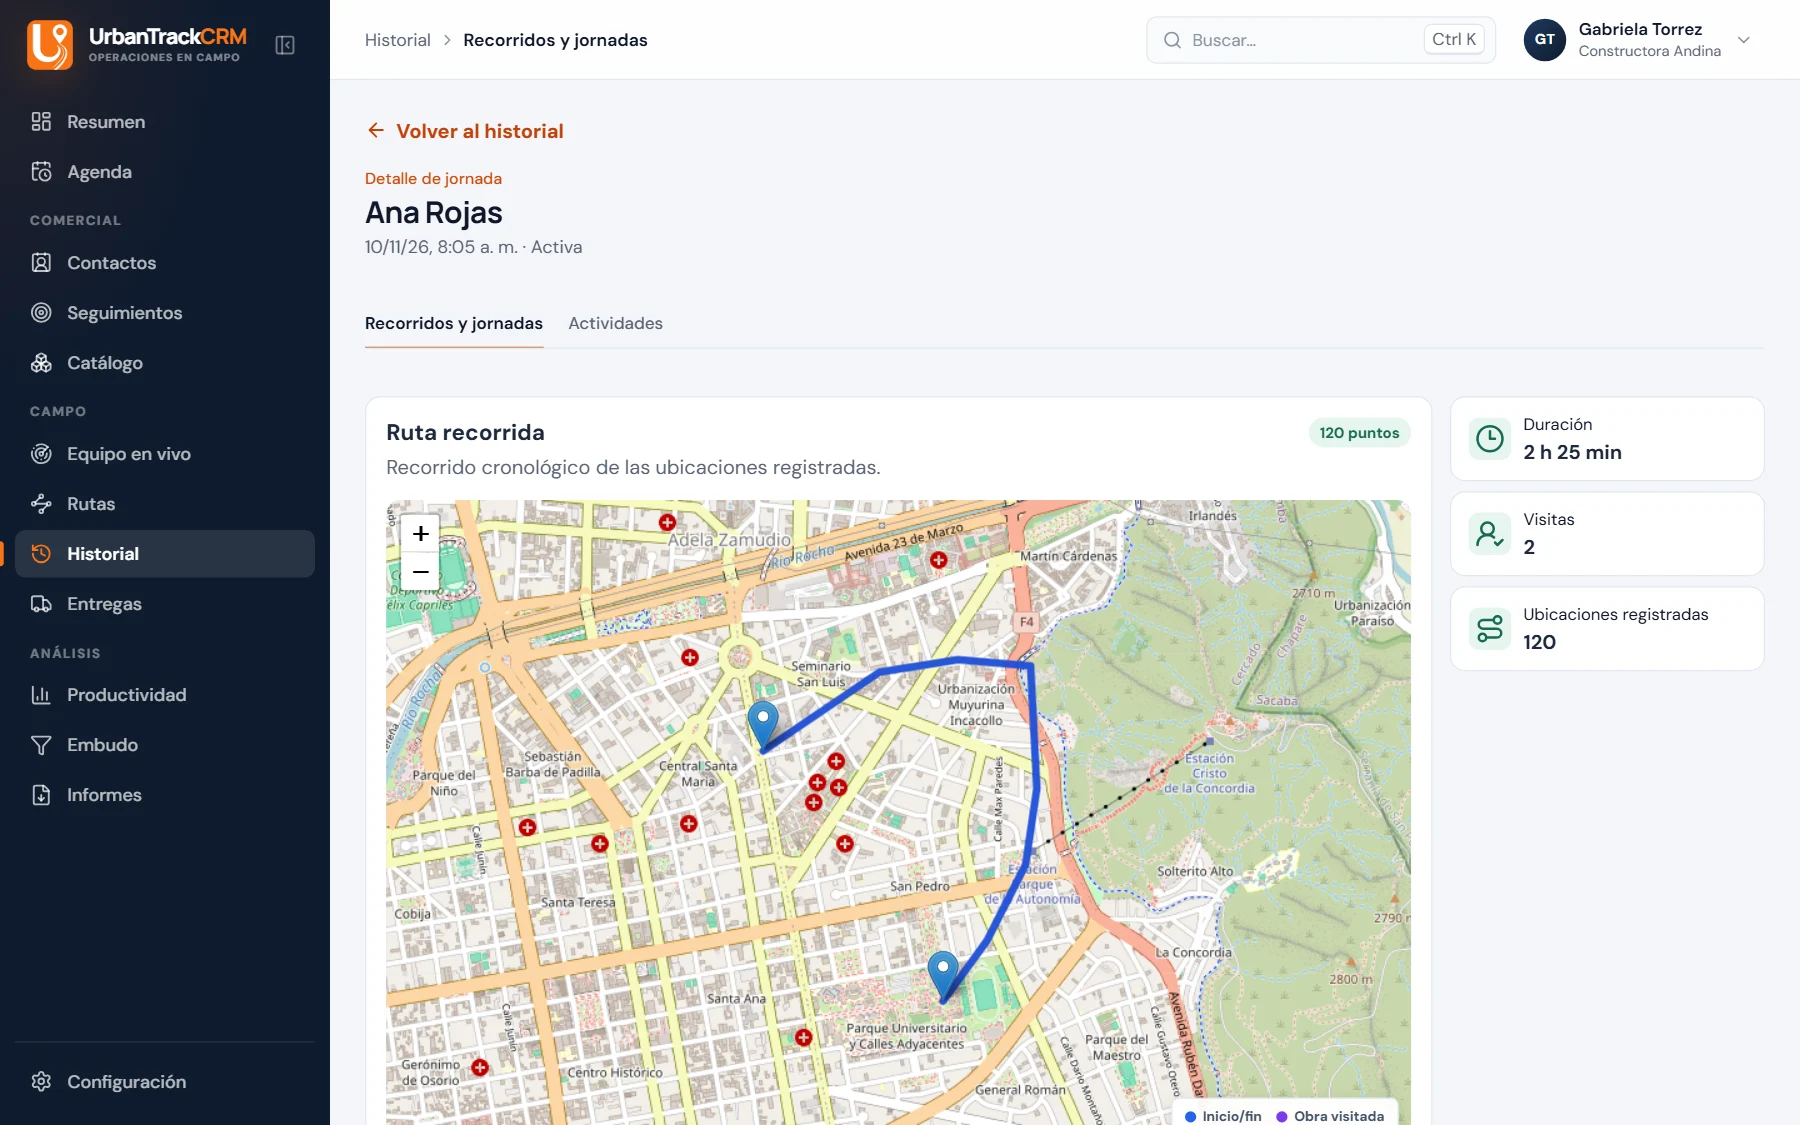
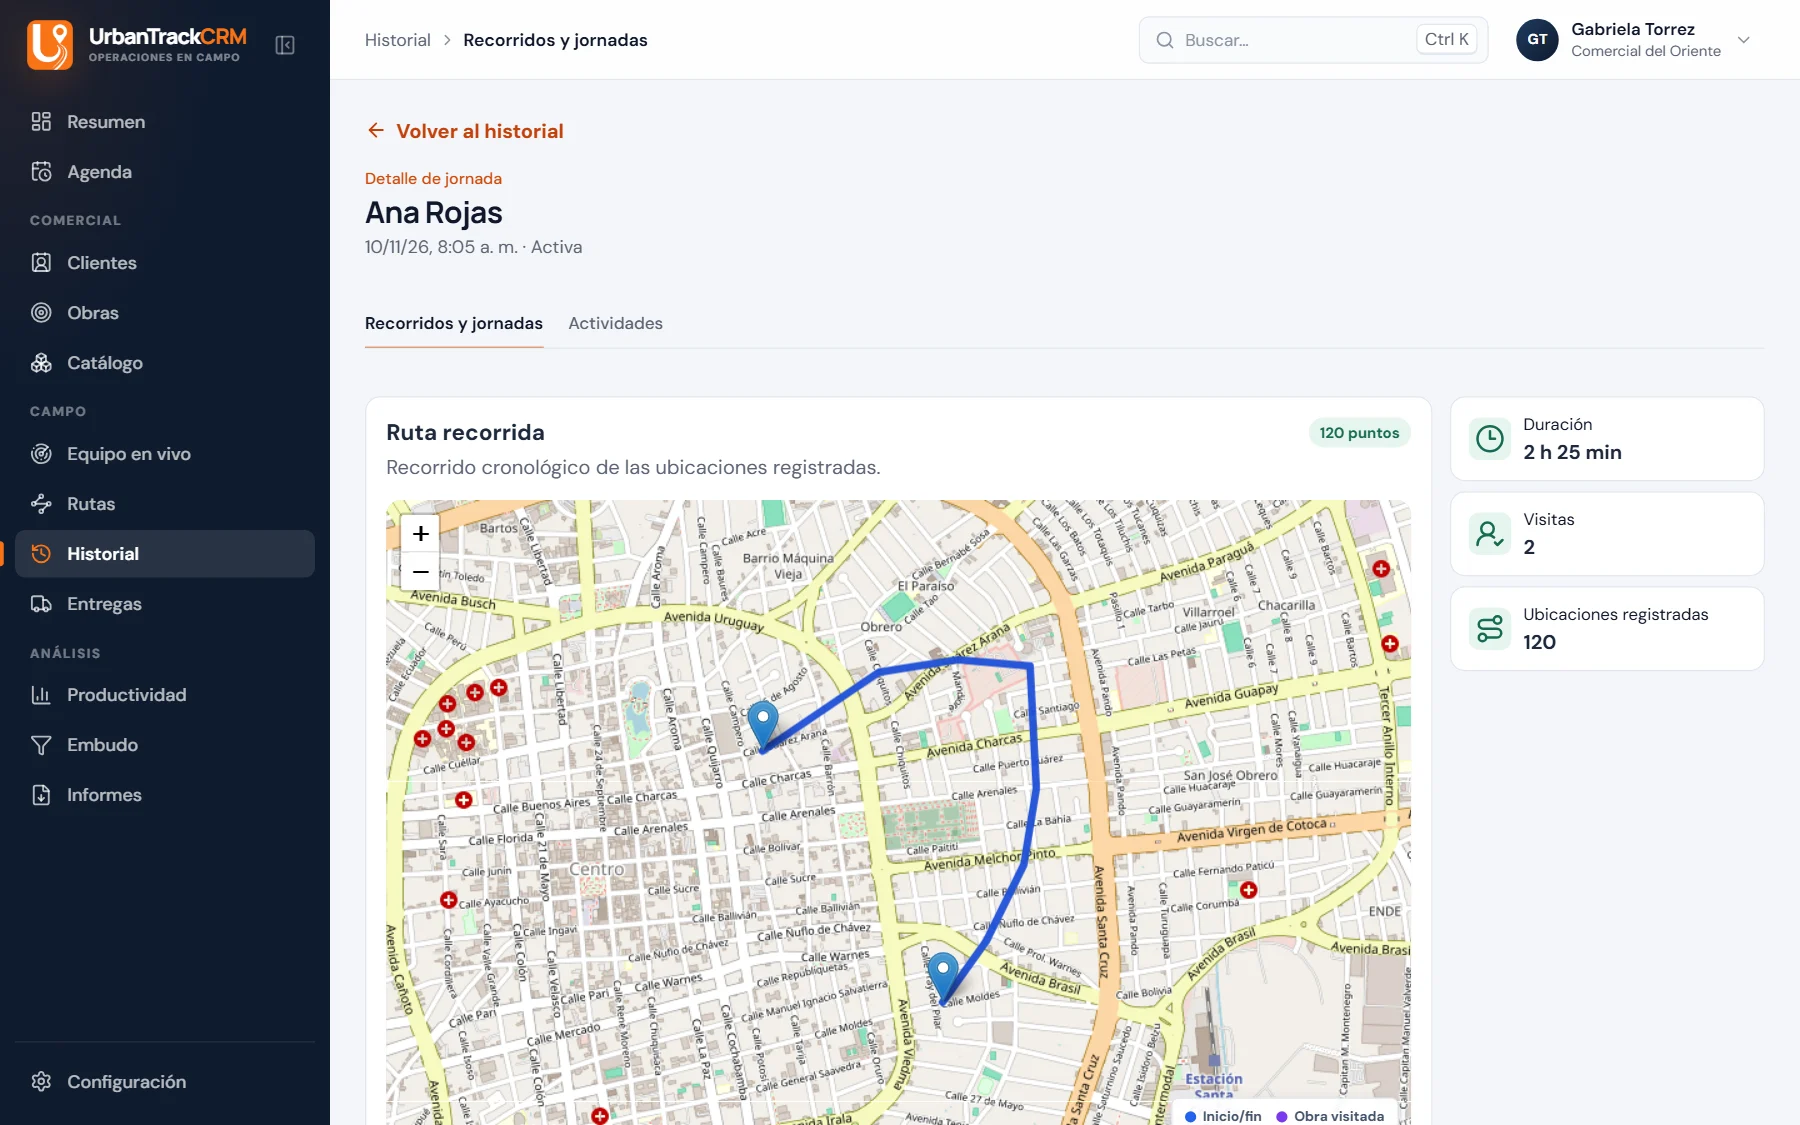
Ajustar el manual web a una empresa de construcción en Santa Cruz
Las capturas pasan a Santa Cruz, con productos del rubro (calamina,
pintura, revestimientos) y los nombres de construcción: Clientes y Obras.
El texto del manual usa esos mismos nombres; los textos que la app muestra
igual en cualquier rubro no cambian. El usuario de ejemplo recibe
companies.read, sin el cual la app no carga los nombres del rubro.

diff --git a/manual/web/index.html b/manual/web/index.html
@@ -5,7 +5,7 @@
     <meta name="viewport" content="width=device-width, initial-scale=1" />
     <meta
       name="description"
-      content="Manual de usuario de la plataforma web UrbanTrackCRM: contactos, seguimientos, agenda, equipo en vivo, rutas, entregas, informes y configuración, paso a paso."
+      content="Manual de usuario de la plataforma web UrbanTrackCRM: clientes, obras, agenda, equipo en vivo, rutas, entregas, informes y configuración, paso a paso."
     />
     <meta name="theme-color" content="#ff6b17" />
     <meta property="og:title" content="Manual de usuario · Plataforma web UrbanTrackCRM" />
@@ -100,7 +100,7 @@
           <div class="m-hero-stage">
             <div class="stage-ring ring-one" aria-hidden="true"></div>
             <div class="stage-ring ring-two" aria-hidden="true"></div>
-            <figure class="w-browser" style="position: relative; z-index: 2; width: 100%"><div class="w-bar" aria-hidden="true"><i></i><i></i><i></i><span>app.urbantrack.io</span></div><img class="w-shot" src="capturas/resumen.webp" width="1800" height="1125" alt="Pantalla Resumen con indicadores, mapa de seguimientos y actividad reciente" fetchpriority="high" decoding="async" /></figure>
+            <figure class="w-browser" style="position: relative; z-index: 2; width: 100%"><div class="w-bar" aria-hidden="true"><i></i><i></i><i></i><span>app.urbantrack.io</span></div><img class="w-shot" src="capturas/resumen.webp" width="1800" height="1125" alt="Pantalla Resumen con indicadores, mapa de obras y actividad reciente" fetchpriority="high" decoding="async" /></figure>
             <div class="m-float m-float-top" aria-hidden="true">
               <i class="m-dot m-dot-green"></i> 4 trabajando ahora
             </div>
@@ -126,19 +126,19 @@
               <a href="#equipo"><b>Sigue a tu equipo</b><span>Quién trabaja, dónde y qué visita.</span></a>
             </li>
             <li>
-              <a href="#contactos"><b>Gestiona tu cartera</b><span>Contactos, seguimientos y agenda.</span></a>
+              <a href="#contactos"><b>Gestiona tu cartera</b><span>Clientes, obras y agenda.</span></a>
             </li>
             <li>
               <a href="#analisis"><b>Analiza</b><span>Productividad, embudo e informes PDF.</span></a>
             </li>
           </ol>
           <p class="m-terms">
-            <strong>Los nombres se adaptan a tu empresa.</strong> Según tu
-            rubro, la plataforma puede llamar a tus clientes <em>Contactos</em>
-            o <em>Clientes</em>, y a tus proyectos <em>Seguimientos</em> u
-            <em>Obras</em>. Este manual usa los nombres generales. Además, solo
-            verás las secciones que tu empresa tiene activas y que tu rol
-            permite usar.
+            <strong>Los nombres se adaptan a tu empresa.</strong> Este manual
+            usa los de construcción: <em>Clientes</em> y <em>Obras</em>. Según
+            tu rubro, la plataforma puede llamarlos <em>Contactos</em> y
+            <em>Seguimientos</em>, u otros nombres que elija tu administrador.
+            Además, solo verás las secciones que tu empresa tiene activas y
+            que tu rol permite usar.
           </p>
         </div>
       </section>
@@ -155,14 +155,14 @@
             </p>
             <dl class="m-tabs">
               <div><dt>Inicio</dt><dd><b>Resumen</b> del día y <b>Agenda</b> del equipo.</dd></div>
-              <div><dt>Comercial</dt><dd><b>Contactos</b>, <b>Seguimientos</b> y <b>Catálogo</b> de productos.</dd></div>
+              <div><dt>Comercial</dt><dd><b>Clientes</b>, <b>Obras</b> y <b>Catálogo</b> de productos.</dd></div>
               <div><dt>Campo</dt><dd><b>Equipo en vivo</b>, <b>Rutas</b>, <b>Historial</b> y <b>Entregas</b>.</dd></div>
               <div><dt>Análisis</dt><dd><b>Productividad</b>, <b>Embudo</b> e <b>Informes</b> PDF.</dd></div>
               <div><dt>Ajustes</dt><dd><b>Configuración</b> de usuarios, sucursales y la operación.</dd></div>
             </dl>
             <h3>Atajos útiles</h3>
             <ul class="m-list">
-              <li><b>Búsqueda rápida:</b> pulsa <kbd>Ctrl</kbd> + <kbd>K</kbd> y escribe el nombre de una página o de un contacto para ir directo.</li>
+              <li><b>Búsqueda rápida:</b> pulsa <kbd>Ctrl</kbd> + <kbd>K</kbd> y escribe el nombre de una página o de un cliente para ir directo.</li>
               <li><b>Contraer menú:</b> deja solo los íconos para ganar espacio en pantallas pequeñas.</li>
               <li><b>Tu perfil</b> (arriba a la derecha): tus roles, <b>Ayuda y soporte</b> y <b>Cerrar sesión</b>.</li>
               <li><b>En el celular</b>, la plataforma muestra una barra inferior con los accesos principales y <b>Más</b>.</li>
@@ -170,8 +170,8 @@
           </div>
           <div class="w-shots">
             <figure>
-              <div class="w-browser"><div class="w-bar" aria-hidden="true"><i></i><i></i><i></i><span>app.urbantrack.io</span></div><img class="w-shot" src="capturas/buscador.webp" width="1800" height="1125" alt="Búsqueda rápida abierta con Ctrl + K mostrando un contacto encontrado" loading="lazy" decoding="async" /></div>
-              <figcaption><b>Ctrl + K</b> · Ve a cualquier página o contacto.</figcaption>
+              <div class="w-browser"><div class="w-bar" aria-hidden="true"><i></i><i></i><i></i><span>app.urbantrack.io</span></div><img class="w-shot" src="capturas/buscador.webp" width="1800" height="1125" alt="Búsqueda rápida abierta con Ctrl + K mostrando un cliente encontrado" loading="lazy" decoding="async" /></div>
+              <figcaption><b>Ctrl + K</b> · Ve a cualquier página o cliente.</figcaption>
             </figure>
           </div>
         </div>
@@ -229,15 +229,15 @@
             </p>
             <ul class="m-list">
               <li><b>Indicadores:</b> contactos activos, seguimientos abiertos, entregas pendientes, vencidas y del mes, y recordatorios de hoy.</li>
-              <li><b>Mapa de ubicaciones:</b> los seguimientos que tienen ubicación registrada.</li>
+              <li><b>Mapa de ubicaciones:</b> las obras que tienen ubicación registrada.</li>
               <li><b>Actividad reciente:</b> lo último que hizo el equipo. Usa <b>Ver toda</b> para el detalle.</li>
               <li><b>Próximos seguimientos</b> y <b>Entregas urgentes</b>, con lo vencido marcado.</li>
-              <li><b>Avance de seguimientos:</b> en qué porcentaje va cada uno.</li>
+              <li><b>Avance de seguimientos:</b> en qué porcentaje va cada obra.</li>
             </ul>
           </div>
           <div class="w-shots">
             <figure>
-              <div class="w-browser"><div class="w-bar" aria-hidden="true"><i></i><i></i><i></i><span>app.urbantrack.io</span></div><img class="w-shot" src="capturas/resumen.webp" width="1800" height="1125" alt="Pantalla Resumen con indicadores, mapa de seguimientos y actividad reciente" loading="lazy" decoding="async" /></div>
+              <div class="w-browser"><div class="w-bar" aria-hidden="true"><i></i><i></i><i></i><span>app.urbantrack.io</span></div><img class="w-shot" src="capturas/resumen.webp" width="1800" height="1125" alt="Pantalla Resumen con indicadores, mapa de obras y actividad reciente" loading="lazy" decoding="async" /></div>
               <figcaption><b>Resumen</b> · El estado del equipo al abrir la plataforma.</figcaption>
             </figure>
           </div>
@@ -249,7 +249,7 @@
         <div class="container m-chapter-grid m-flip">
           <div class="m-copy">
             <p class="section-index">04 · Comercial</p>
-            <h2>Tu cartera de <em>contactos.</em></h2>
+            <h2>Tu cartera de <em>clientes.</em></h2>
             <p class="m-lead">
               Todas las personas y organizaciones que atiende tu equipo, con su
               estado, responsable y todo lo que pasó con cada una.
@@ -262,17 +262,17 @@
               <li><b>Abre la ficha CRM</b> para ver datos comerciales, último y próximo contacto, dirección y ubicación en el mapa.</li>
               <li><b>En la ficha</b> agrega notas y recordatorios, revisa la <b>Actividad reciente</b> y descarga los comprobantes en ZIP.</li>
             </ul>
-            <h3>Registrar un contacto</h3>
+            <h3>Registrar un cliente</h3>
             <ol class="m-steps">
-              <li>Haz clic en <span class="m-ui m-ui-orange">+ Nuevo contacto</span>.</li>
+              <li>Haz clic en <span class="m-ui m-ui-orange">+ Nuevo cliente</span>.</li>
               <li>Completa los <b>datos del cliente</b>, su ubicación y el <b>seguimiento inicial</b> (estado y próximo paso).</li>
               <li>Haz clic en <span class="m-ui">Guardar cliente</span>.</li>
             </ol>
           </div>
           <div class="w-shots">
             <figure>
-              <div class="w-browser"><div class="w-bar" aria-hidden="true"><i></i><i></i><i></i><span>app.urbantrack.io/customers</span></div><img class="w-shot" src="capturas/contactos.webp" width="1800" height="1125" alt="Listado de contactos con vistas, búsqueda, filtros y acciones" loading="lazy" decoding="async" /></div>
-              <figcaption><b>Contactos</b> · Vistas, búsqueda, filtros y acciones.</figcaption>
+              <div class="w-browser"><div class="w-bar" aria-hidden="true"><i></i><i></i><i></i><span>app.urbantrack.io/customers</span></div><img class="w-shot" src="capturas/clientes.webp" width="1800" height="1125" alt="Listado de clientes con vistas, búsqueda, filtros y acciones" loading="lazy" decoding="async" /></div>
+              <figcaption><b>Clientes</b> · Vistas, búsqueda, filtros y acciones.</figcaption>
             </figure>
           </div>
         </div>
@@ -283,22 +283,21 @@
         <div class="container m-chapter-grid">
           <div class="m-copy">
             <p class="section-index">05 · Comercial</p>
-            <h2>Cada seguimiento, <em>de principio a fin.</em></h2>
+            <h2>Cada obra, <em>de principio a fin.</em></h2>
             <p class="m-lead">
-              Lo que tu equipo gestiona para cada contacto: una obra, una
-              oportunidad o un proyecto, con su avance, monto, archivos y
-              visitas.
+              Cada trabajo que tu equipo atiende para un cliente, con su
+              avance, monto, archivos y visitas.
             </p>
             <ul class="m-list">
-              <li><b>Vistas:</b> Todos, Activos o Completados. Busca por nombre o cliente y filtra por estado o responsable.</li>
-              <li><b>Asigna en bloque:</b> marca varios con la casilla y usa <b>Asignar responsable</b>.</li>
+              <li><b>Vistas:</b> Todas, Activas o Completadas. Busca por obra o cliente y filtra por estado o responsable.</li>
+              <li><b>Asigna en bloque:</b> marca varias con la casilla y usa <b>Asignar responsable</b>.</li>
               <li><b>La ficha</b> tiene pestañas: <b>Resumen</b> (datos, ubicación y avance), <b>Actividad</b> (visitas, notas y recordatorios), <b>Archivos</b> y <b>Entrega</b>.</li>
               <li><b>Archivos:</b> sube fotos o documentos PDF, Excel y Word, elige una <b>portada</b> y descárgalos en ZIP. También ves las fotos de las visitas y los comprobantes de entregas.</li>
-              <li><b>Ver embudo</b> te lleva al reporte de avance de todos los seguimientos.</li>
+              <li><b>Ver embudo</b> te lleva al reporte de avance de todas las obras.</li>
             </ul>
-            <h3>Registrar un seguimiento</h3>
+            <h3>Registrar una obra</h3>
             <ol class="m-steps">
-              <li>Haz clic en <span class="m-ui m-ui-orange">+ Nuevo seguimiento</span>.</li>
+              <li>Haz clic en <span class="m-ui m-ui-orange">+ Nueva obra</span>.</li>
               <li>Completa nombre, cliente, responsable, monto estimado, fechas y ubicación.</li>
               <li>Haz clic en <span class="m-ui">Guardar proyecto</span>.</li>
             </ol>
@@ -311,8 +310,8 @@
           </div>
           <div class="w-shots">
             <figure>
-              <div class="w-browser"><div class="w-bar" aria-hidden="true"><i></i><i></i><i></i><span>app.urbantrack.io/projects</span></div><img class="w-shot" src="capturas/seguimiento.webp" width="1800" height="1125" alt="Ficha de un seguimiento con datos principales, ubicación, avance y actividad" loading="lazy" decoding="async" /></div>
-              <figcaption><b>Ficha del seguimiento</b> · Resumen, actividad, archivos y entrega.</figcaption>
+              <div class="w-browser"><div class="w-bar" aria-hidden="true"><i></i><i></i><i></i><span>app.urbantrack.io/projects</span></div><img class="w-shot" src="capturas/obra.webp" width="1800" height="1125" alt="Ficha de una obra con datos principales, ubicación, avance y actividad" loading="lazy" decoding="async" /></div>
+              <figcaption><b>Ficha de la obra</b> · Resumen, actividad, archivos y entrega.</figcaption>
             </figure>
           </div>
         </div>
@@ -336,7 +335,7 @@
             <h3>Programar un recordatorio</h3>
             <ol class="m-steps">
               <li>Haz clic en <span class="m-ui m-ui-orange">Programar recordatorio</span> o en un día del calendario.</li>
-              <li>Elige el <b>contacto</b>, el <b>responsable</b> y la <b>fecha y hora</b>, y describe el pendiente.</li>
+              <li>Elige el <b>cliente</b>, el <b>responsable</b> y la <b>fecha y hora</b>, y describe el pendiente.</li>
               <li>Haz clic en <span class="m-ui">Programar</span>. El responsable lo verá también en su app.</li>
             </ol>
           </div>
@@ -402,7 +401,7 @@
             </p>
             <ol class="m-steps">
               <li>En <b>Rutas</b>, elige el <b>responsable</b> y el <b>día</b>.</li>
-              <li>Busca un contacto o seguimiento y agrégalo como parada.</li>
+              <li>Busca un cliente u obra y agrégalo como parada.</li>
               <li>Ordena con <b>Subir</b> y <b>Bajar</b>, o usa <span class="m-ui">Ordenar por cercanía</span>. La primera parada se mantiene como inicio.</li>
               <li>Haz clic en <span class="m-ui m-ui-orange">Guardar ruta</span>.</li>
             </ol>
@@ -462,7 +461,7 @@
             <h2>Entregas, <em>de la promesa a la recepción.</em></h2>
             <p class="m-lead">
               Si tu empresa usa el módulo de entregas, aquí registras lo
-              comprometido para cada seguimiento y controlas lo que llegó.
+              comprometido para cada obra y controlas lo que llegó.
             </p>
             <ul class="m-list">
               <li><b>Filtra</b> por estado y por sucursal. Cada entrega muestra fecha comprometida, responsable, estado y cumplimiento (A tiempo o Vencida).</li>
@@ -473,7 +472,7 @@
             <h3>Crear una entrega</h3>
             <ol class="m-steps">
               <li>Haz clic en <span class="m-ui m-ui-orange">Nueva entrega</span>.</li>
-              <li>Elige el seguimiento, la sucursal de origen y la fecha comprometida, y agrega observaciones si hace falta.</li>
+              <li>Elige la obra, la sucursal de origen y la fecha comprometida, y agrega observaciones si hace falta.</li>
               <li>Agrega los productos con su cantidad y haz clic en <span class="m-ui">Guardar entrega</span>.</li>
             </ol>
             <h3>Registrar una recepción</h3>
@@ -504,7 +503,7 @@
             </p>
             <ul class="m-list">
               <li><b>Catálogo:</b> en las pestañas <b>Productos</b> y <b>Unidades</b> creas, editas y desactivas lo que usan las entregas. Una unidad puede <b>permitir cantidades decimales</b>.</li>
-              <li><b>Exportar:</b> en el menú <span class="m-ui">⋯</span> de Contactos o Seguimientos elige <b>Exportar</b>, marca las columnas y haz clic en <b>Exportar Excel</b>. Se exportan los registros con los filtros aplicados.</li>
+              <li><b>Exportar:</b> en el menú <span class="m-ui">⋯</span> de Clientes u Obras elige <b>Exportar</b>, marca las columnas y haz clic en <b>Exportar Excel</b>. Se exportan los registros con los filtros aplicados.</li>
             </ul>
             <h3>Carga masiva desde Excel</h3>
             <ol class="m-steps">
@@ -522,7 +521,7 @@
           </div>
           <div class="w-shots">
             <figure>
-              <div class="w-browser"><div class="w-bar" aria-hidden="true"><i></i><i></i><i></i><span>app.urbantrack.io/customers/import</span></div><img class="w-shot" src="capturas/carga-masiva.webp" width="1800" height="1125" alt="Carga masiva de contactos en tres pasos, empezando por subir el Excel" loading="lazy" decoding="async" /></div>
+              <div class="w-browser"><div class="w-bar" aria-hidden="true"><i></i><i></i><i></i><span>app.urbantrack.io/customers/import</span></div><img class="w-shot" src="capturas/carga-masiva.webp" width="1800" height="1125" alt="Carga masiva de clientes en tres pasos, empezando por subir el Excel" loading="lazy" decoding="async" /></div>
               <figcaption><b>Carga masiva</b> · Tres pasos con validación por fila.</figcaption>
             </figure>
           </div>
@@ -549,9 +548,9 @@
               <p>Por responsable y periodo: jornadas trabajadas, horas de jornada, clientes atendidos, obras cerradas y recordatorios cumplidos, a tiempo o vencidos.</p>
             </article>
             <article class="m-card">
-              <div class="w-browser" style="margin-bottom: 24px"><div class="w-bar" aria-hidden="true"><i></i><i></i><i></i><span>…/projects/pipeline</span></div><img class="w-shot" src="capturas/embudo.webp" width="1800" height="1125" alt="Embudo de seguimientos agrupados por etapa con montos estimados" loading="lazy" decoding="async" /></div>
+              <div class="w-browser" style="margin-bottom: 24px"><div class="w-bar" aria-hidden="true"><i></i><i></i><i></i><span>…/projects/pipeline</span></div><img class="w-shot" src="capturas/embudo.webp" width="1800" height="1125" alt="Embudo de obras agrupadas por etapa con montos estimados" loading="lazy" decoding="async" /></div>
               <h3>Embudo</h3>
-              <p>Todos los seguimientos por etapa, con su avance y fecha de cierre. Marca los cierres vencidos y se filtra por responsable.</p>
+              <p>Todas las obras por etapa, con su avance y fecha de cierre. Marca los cierres vencidos y se filtra por responsable.</p>
             </article>
             <article class="m-card">
               <div class="w-browser" style="margin-bottom: 24px"><div class="w-bar" aria-hidden="true"><i></i><i></i><i></i><span>…/report-studio/generate</span></div><img class="w-shot" src="capturas/informes.webp" width="1800" height="1125" alt="Generar informe PDF eligiendo una plantilla" loading="lazy" decoding="async" /></div>
@@ -599,7 +598,7 @@
             </article>
           </div>
           <div class="w-roles">
-            <div><b>Vendedor · personal de campo</b><p>Trabaja desde la app móvil: jornada, visitas, sus contactos y su ruta.</p></div>
+            <div><b>Vendedor · personal de campo</b><p>Trabaja desde la app móvil: jornada, visitas, sus clientes y su ruta.</p></div>
             <div><b>Supervisor</b><p>Sigue al equipo en vivo, revisa historial, agenda y reportes.</p></div>
             <div><b>Administrador</b><p>Todo lo anterior más usuarios, sucursales y configuración de la empresa.</p></div>
           </div>
